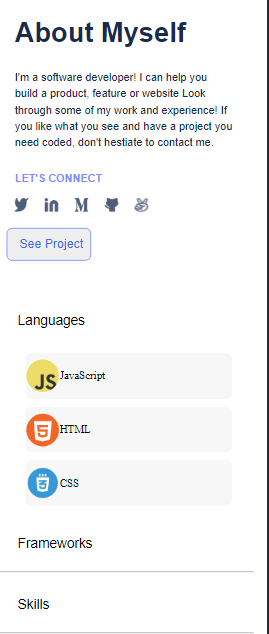
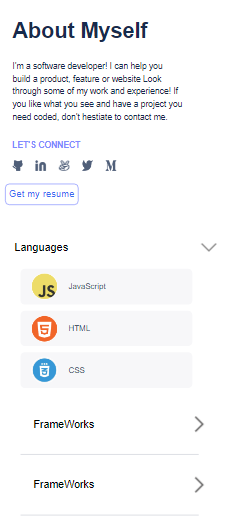
Modified index.html, main.css and updated images in README.md file

diff --git a/index.html b/index.html
@@ -66,8 +66,10 @@
         </div>
 
         <div class="project-details">
-            A daily selection of privately personalized reads;
+        <p>
+             A daily selection of privately personalized reads;
             no accounts or sign-ups required.
+        </p>   
         </div>
 
         <ul class="skills">
@@ -102,8 +104,10 @@
         </div>
 
         <div class="project-details">
-            A daily selection of privately personalized reads;
+        <p>
+             A daily selection of privately personalized reads;
             no accounts or sign-ups required.
+        </p>   
         </div>
 
         <ul class="skills">
@@ -137,8 +141,10 @@
         </div>
 
         <div class="project-details">
-            A daily selection of privately personalized reads;
+          <p>
+              A daily selection of privately personalized reads;
             no accounts or sign-ups required.
+          </p>  
         </div>
 
         <ul class="skills">
@@ -173,8 +179,10 @@
         </div>
 
         <div class="project-details">
-            A daily selection of privately personalized reads;
+           <p>
+                A daily selection of privately personalized reads;
             no accounts or sign-ups required.
+           </p>
         </div>
 
         <ul class="skills">
@@ -206,55 +214,66 @@
         </h3>
         <ul class="box4">
             <li class="social-media">
-                <img src="images/twitter.png" alt="twitter">
-            </li>
-            <li class="social-media">
-                <img src="images/Linkedin.png" alt="Linkedln">
-            </li>
-            <li class="social-media">
-                <img src="images/m.png" alt="m">
-            </li>
-            <li class="social-media">
                 <img src="images/github.png" alt="github">
             </li>
             <li class="social-media">
+                <img src="images/Linkedin.png" alt="Linkedln">
+            </li> 
+            <li class="social-media">
                 <img src="images/fingers.png" alt="two fingers">
             </li>
+            <li class="social-media">
+                <img src="images/twitter.png" alt="twitter">
+            </li>
+            
+            <li class="social-media">
+                <img src="images/m.png" alt="m">
+            </li>           
         </ul>
         <div class="div-button">
             <button class="button">
-               See Project
+               Get my resume
             </button>
         </div>
         <div class="lang">
-            <h4 class="lang-title">
+            <p class="lang-title">
                 Languages
-            </h4>
+                 <img class="imglang-title" src="images/arrow-down.png" alt="">
+            </p>  
         </div>
         <ul>
             <li class="lang-skills">
-                <img src="images/js.png" alt="js">JavaScript
+                <img src="images/js.png" alt="js"> <p>
+                    JavaScript
+                </p> 
             </li>
             <li class="lang-skills">
-                <img src="images/html.png" alt="html">HTML
+                <img src="images/html.png" alt="html"> <p>
+                    HTML
+                </p>
             </li>
             <li class="lang-skills">
-                <img src="images/css.png" alt="css">CSS
+                <img src="images/css.png" alt="css">
+                <p>
+                    CSS
+                </p>
             </li>
+            <li class="lang">
+                <p>
+                    FrameWorks
+                   </p>    
+                     <img class="imglang-title" src="images/arrow-side.png" alt="">
+            </li>
+            <li class="lang-line"></li>
+            <li class="lang">
+                <p>
+                    FrameWorks
+                   </p>    
+                     <img class="imglang-title" src="images/arrow-side.png" alt="">
+            </li>
+            <li class="lang-line"></li>
         </ul>
-        <div class="lang">
-            <h4 class="lang-title">
-                Frameworks
-            </h4>
-        </div>
-        <hr>
-        <div class="lang">
-            <h4 class="lang-title">
-                Skills
-            </h4>
-
-        </div>
-        <hr>
+            
     </section>
 </body>
 

diff --git a/main.css b/main.css
@@ -1,5 +1,10 @@
 .container {
   display: flex;
+  justify-content: space-between;
+  width: 375px;
+  height: 92px;
+  left: 0;
+  top: 0;
 }
 
 .container > nav {
@@ -29,7 +34,6 @@
 .content {
   display: flex;
   flex-direction: column;
-  height: 80vh;
   background-image: url("images/background.png");
   background-repeat: no-repeat;
   background-size: 100%;
@@ -109,23 +113,21 @@ li.social-media {
 }
 
 .projects {
-  display: flex;
-  flex-direction: column;
+  display: grid;
+  grid-template-columns: 1fr;
+  grid-template-rows: auto;
   align-items: center;
   padding: 16px;
   position: static;
   width: 327px;
   height: 552px;
   left: calc(50% - 327px / 2);
-  top: 114px;
   background: #fff;
   border: 1px solid #dfe1e6;
   box-sizing: border-box;
   border-radius: 16px;
   flex: none;
-  order: 0;
-  flex-grow: 0;
-  margin: 88px 0.5px;
+  margin: 50px 0.5px;
 }
 
 .project1 {
@@ -145,8 +147,8 @@ li.social-media {
   position: static;
   width: 295px;
   height: 36px;
-  left: 0.5px;
-  top: 0.5px;
+  left: 0;
+  top: 0;
   font-family: "Poppins", sans-serif;
   font-style: normal;
   font-weight: bold;
@@ -156,7 +158,7 @@ li.social-media {
   flex: none;
   order: 0;
   flex-grow: 0;
-  margin: 12px 0.5px;
+  margin: 12px 0;
 }
 
 .role {
@@ -183,7 +185,6 @@ li.social-media {
 }
 
 .role-dot {
-  position: static;
   width: 8px;
   height: 8px;
   left: 67px;
@@ -193,6 +194,7 @@ li.social-media {
   order: 0;
   flex-grow: 0;
   margin: 0.5px 12px;
+  border-radius: 50%;
 }
 
 .role-job {
@@ -317,37 +319,22 @@ li.skillset {
 }
 
 .button {
-  position: static;
-  width: 100.5px;
-  height: 48px;
-  left: 12px;
-  top: 12px;
-  font-size: 15px;
-  line-height: 24px;
-  display: flex;
-  align-items: center;
-  text-align: center;
-  letter-spacing: 0.03em;
-  color: #396df2;
-  flex: none;
-  order: 0;
-  flex-grow: 0;
-  margin: 0.5px 10.5px;
-  font-family: "Poppins", sans-serif;
-}
-
-button {
-  display: flex;
   flex-direction: row;
   align-items: center;
-  padding: 8px;
-  width: 124px;
-  height: 48px;
-  left: 0.5px;
+  background: #fff;
+  padding: 7px;
+  top: 12px;
   border: 1px solid #6070ff;
   box-sizing: border-box;
   border-radius: 8px;
-  margin-left: 12px;
+  font-family: "Poppins", sans-serif;
+  font-style: normal;
+  font-weight: 500;
+  font-size: 17px;
+  line-height: 24px;
+  letter-spacing: 0.03em;
+  color: #396df2;
+  margin: 0 10px;
 }
 
 .proj-myself {
@@ -377,22 +364,27 @@ button {
 }
 
 .lang {
-  position: static;
+  display: flex;
+  justify-content: space-between;
+  align-items: center;
   width: 327px;
-  height: 72px;
-  left: 0.5px;
-  top: 0.5px;
-  flex: none;
-  order: 0;
-  flex-grow: 0;
-  margin: 0.5px 0.5px;
+  padding: 24px;
+  font-family: "Poppins", sans-serif;
+  font-style: normal;
+  font-weight: 500;
+  font-size: 20px;
+  line-height: 24px;
+}
+
+.imglang-title {
+  width: 30px;
 }
 
 .lang-title {
   position: absolute;
   height: 24px;
   left: 12px;
-  right: 78px;
+  right: 100px;
   font-family: "Poppins", sans-serif;
   font-style: normal;
   font-weight: 500;
@@ -402,6 +394,7 @@ button {
   align-items: center;
   color: #000;
   padding-left: 24px;
+  justify-content: space-between;
 }
 
 .hr {
@@ -418,16 +411,25 @@ button {
   width: 303px;
   height: 66.72px;
   left: 12px;
-  top: 169.43px;
+  top: 12px;
+  display: flex;
+  padding-left: 20px;
+  align-items: center;
+  column-gap: 20px;
   background: #f7f7f9;
   border-radius: 8px;
-  flex: none;
-  order: 2;
-  flex-grow: 0;
-  margin: 12px 0.5px;
-  align-items: center;
+  margin: 12px 0;
+  font-family: "Poppins", sans-serif;
+  font-style: normal;
+  font-weight: 500;
+  font-size: 15px;
+  line-height: 20px;
+  color: #253858;
 }
 
-li.lang-skills {
+.lang-line {
   display: flex;
+  height: 2px;
+  width: 327px;
+  background: #dfe1e6;
 }
